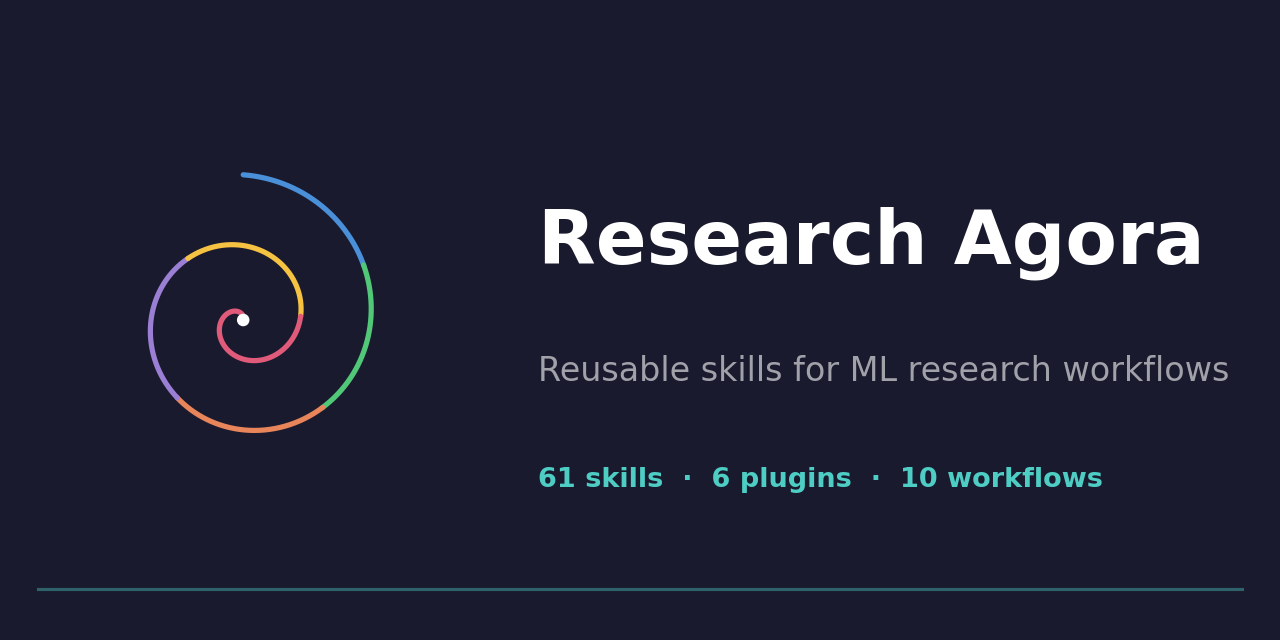
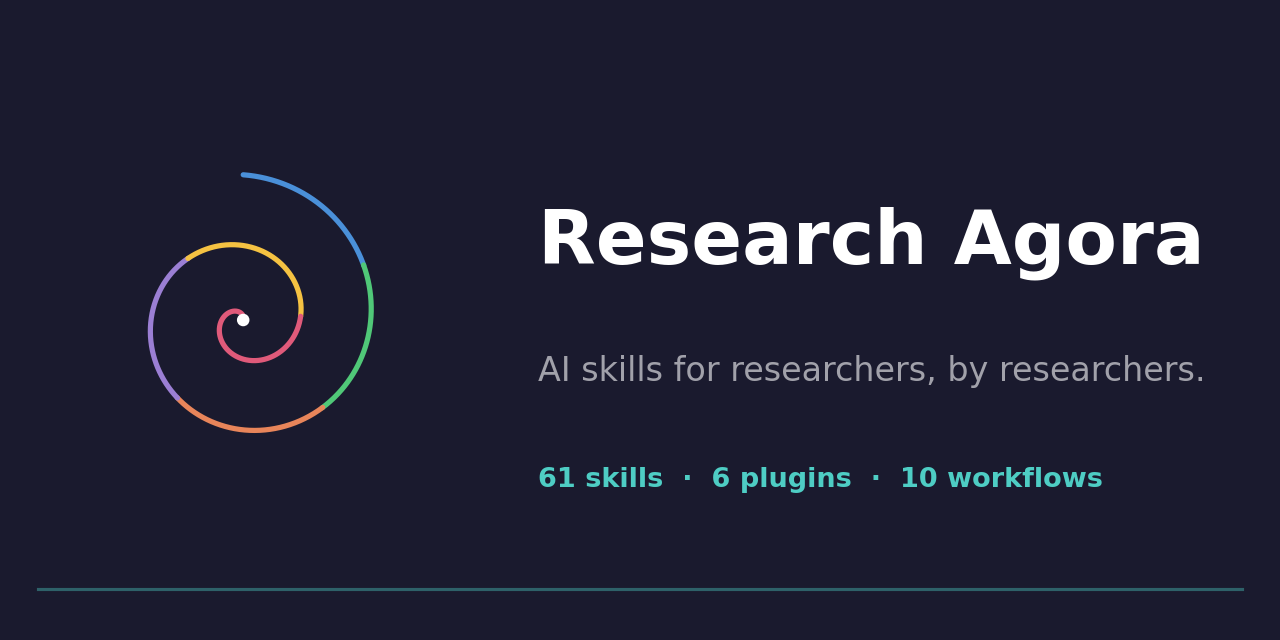
docs(branding): deploy tagline "AI skills for researchers, by researchers."
Update tagline across all site pages, templates, social previews,
twitter banner, LinkedIn carousel, and branding generator scripts.
Regenerate all visual assets with new tagline.

Changed region(s): [[0.4062, 0.5625, 0.9688, 0.5938]]

diff --git a/site/static/concepts.html b/site/static/concepts.html
@@ -9,10 +9,10 @@
     <meta property="og:type" content="website">
     <meta property="og:image" content="https://rpatrik96.github.io/research-agora/og-image.png">
     <meta property="og:title" content="Research Agora — AI Skills for Research">
-    <meta property="og:description" content="Reusable skills for ML research workflows">
+    <meta property="og:description" content="AI skills for researchers, by researchers.">
     <meta name="twitter:card" content="summary_large_image">
     <meta name="twitter:image" content="https://rpatrik96.github.io/research-agora/og-image.png">
-    <meta name="description" content="Reusable skills for ML research workflows">
+    <meta name="description" content="AI skills for researchers, by researchers.">
     <script>(function(){var t=localStorage.getItem('theme')||'dark';document.documentElement.setAttribute('data-theme',t)})();</script>
     <style>
         .breadcrumb {

diff --git a/site/static/examples.html b/site/static/examples.html
@@ -9,10 +9,10 @@
     <meta property="og:type" content="website">
     <meta property="og:image" content="https://rpatrik96.github.io/research-agora/og-image.png">
     <meta property="og:title" content="Research Agora — AI Skills for Research">
-    <meta property="og:description" content="Reusable skills for ML research workflows">
+    <meta property="og:description" content="AI skills for researchers, by researchers.">
     <meta name="twitter:card" content="summary_large_image">
     <meta name="twitter:image" content="https://rpatrik96.github.io/research-agora/og-image.png">
-    <meta name="description" content="Reusable skills for ML research workflows">
+    <meta name="description" content="AI skills for researchers, by researchers.">
     <script>(function(){var t=localStorage.getItem('theme')||'dark';document.documentElement.setAttribute('data-theme',t)})();</script>
     <style>
         .breadcrumb {

diff --git a/site/static/interop.html b/site/static/interop.html
@@ -9,10 +9,10 @@
     <meta property="og:type" content="website">
     <meta property="og:image" content="https://rpatrik96.github.io/research-agora/og-image.png">
     <meta property="og:title" content="Research Agora — AI Skills for Research">
-    <meta property="og:description" content="Reusable skills for ML research workflows">
+    <meta property="og:description" content="AI skills for researchers, by researchers.">
     <meta name="twitter:card" content="summary_large_image">
     <meta name="twitter:image" content="https://rpatrik96.github.io/research-agora/og-image.png">
-    <meta name="description" content="Reusable skills for ML research workflows">
+    <meta name="description" content="AI skills for researchers, by researchers.">
     <script>(function(){var t=localStorage.getItem('theme')||'dark';document.documentElement.setAttribute('data-theme',t)})();</script>
     <style>
         .breadcrumb {

diff --git a/site/static/privacy.html b/site/static/privacy.html
@@ -9,10 +9,10 @@
     <meta property="og:type" content="website">
     <meta property="og:image" content="https://rpatrik96.github.io/research-agora/og-image.png">
     <meta property="og:title" content="Research Agora — AI Skills for Research">
-    <meta property="og:description" content="Reusable skills for ML research workflows">
+    <meta property="og:description" content="AI skills for researchers, by researchers.">
     <meta name="twitter:card" content="summary_large_image">
     <meta name="twitter:image" content="https://rpatrik96.github.io/research-agora/og-image.png">
-    <meta name="description" content="Reusable skills for ML research workflows">
+    <meta name="description" content="AI skills for researchers, by researchers.">
     <script>(function(){var t=localStorage.getItem('theme')||'dark';document.documentElement.setAttribute('data-theme',t)})();</script>
     <style>
         .breadcrumb {

diff --git a/site/static/quickstart.html b/site/static/quickstart.html
@@ -9,10 +9,10 @@
     <meta property="og:type" content="website">
     <meta property="og:image" content="https://rpatrik96.github.io/research-agora/og-image.png">
     <meta property="og:title" content="Research Agora — AI Skills for Research">
-    <meta property="og:description" content="Reusable skills for ML research workflows">
+    <meta property="og:description" content="AI skills for researchers, by researchers.">
     <meta name="twitter:card" content="summary_large_image">
     <meta name="twitter:image" content="https://rpatrik96.github.io/research-agora/og-image.png">
-    <meta name="description" content="Reusable skills for ML research workflows">
+    <meta name="description" content="AI skills for researchers, by researchers.">
     <script>(function(){var t=localStorage.getItem('theme')||'dark';document.documentElement.setAttribute('data-theme',t)})();</script>
     <style>
         .breadcrumb {

diff --git a/site/static/verification.html b/site/static/verification.html
@@ -9,10 +9,10 @@
     <meta property="og:type" content="website">
     <meta property="og:image" content="https://rpatrik96.github.io/research-agora/og-image.png">
     <meta property="og:title" content="Research Agora — AI Skills for Research">
-    <meta property="og:description" content="Reusable skills for ML research workflows">
+    <meta property="og:description" content="AI skills for researchers, by researchers.">
     <meta name="twitter:card" content="summary_large_image">
     <meta name="twitter:image" content="https://rpatrik96.github.io/research-agora/og-image.png">
-    <meta name="description" content="Reusable skills for ML research workflows">
+    <meta name="description" content="AI skills for researchers, by researchers.">
     <script>(function(){var t=localStorage.getItem('theme')||'dark';document.documentElement.setAttribute('data-theme',t)})();</script>
     <style>
         .breadcrumb {

diff --git a/branding/generate_spiral_final.py b/branding/generate_spiral_final.py
@@ -201,7 +201,7 @@ def make_social_preview(width, height, dpi, center_mode="dot"):
     tx = 0.42
     ax.text(tx, 0.62, "Research Agora", color="white", fontsize=36,
             fontweight="bold", va="center", ha="left", fontfamily="DejaVu Sans")
-    ax.text(tx, 0.42, "Reusable skills for ML research workflows",
+    ax.text(tx, 0.42, "AI skills for researchers, by researchers.",
             color="#a1a1aa", fontsize=16, va="center", ha="left",
             fontfamily="DejaVu Sans")
     ax.text(tx, 0.25, "61 skills  ·  6 plugins  ·  10 workflows",

diff --git a/dissemination/create_carousel.py b/dissemination/create_carousel.py
@@ -280,7 +280,7 @@ def slide1(prs):
     p2 = tf2.paragraphs[0]
     p2.alignment = PP_ALIGN.CENTER
     run2 = p2.add_run()
-    run2.text = "61 Open-Source AI Skills for ML Research"
+    run2.text = "AI skills for researchers, by researchers."
     run2.font.size = Pt(28)
     run2.font.bold = False
     run2.font.color.rgb = TEAL

diff --git a/dissemination/assets/make_banner.py b/dissemination/assets/make_banner.py
@@ -142,7 +142,7 @@ ax.text(
 # Tagline
 ax.text(
     tx, 0.42,
-    "61 AI Skills for ML Research",
+    "AI skills for researchers, by researchers.",
     color="#ccccdd",
     fontsize=13,
     fontweight="normal",

diff --git a/dissemination/twitter-thread-launch.md b/dissemination/twitter-thread-launch.md
@@ -75,6 +75,11 @@ Code: github.com/rpatrik96/research-agora
 
 ---
 
+## Tagline
+AI skills for researchers, by researchers.
+
+---
+
 ## Posting notes
 - Post 1 first, then reply to it with posts 2-7 as a thread
 - Attach demo GIF or spiral logo (`branding/spiral-pure-mark-dark.png`) to post 1
